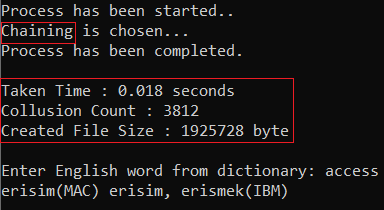
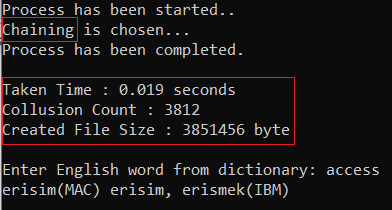
File size print is fixed

Changed region(s): [[0.0, 0.0, 1.0, 1.0]]

diff --git a/hash-project/main.cpp b/hash-project/main.cpp
@@ -34,7 +34,8 @@ int hash_word(char[36]);
 int hash_num(int);
 void resolver_func(int);
 
-int word_count = 1, optimum_value = 0, collusion_count = 0;
+int word_count = 1, collusion_count = 0;
+long int optimum_value = 0;
 string dictionary_file_full;
 
 string resolvers[4] = {"Chaining", 
@@ -280,7 +281,12 @@ void resolver_choice(int choice)
     the_time = (double)(time_end - time_start) / CLOCKS_PER_SEC;
     cout<<"Taken Time : "<<the_time<<" seconds"<<endl;
     cout<<"Collusion Count : "<<collusion_count<<endl;
-    cout<<"Created File Size : "<<sizeof(Unit)*optimum_value*2<<" byte"<<endl<<endl;
+    
+    int file_size = optimum_value;
+    if (choice == 0)
+        file_size *= 2;
+    
+    cout<<"Created File Size : "<<sizeof(Unit) * file_size * 2<<" byte"<<endl<<endl;
 }
 void normalize_Turkish_characters(char word[])
 {
